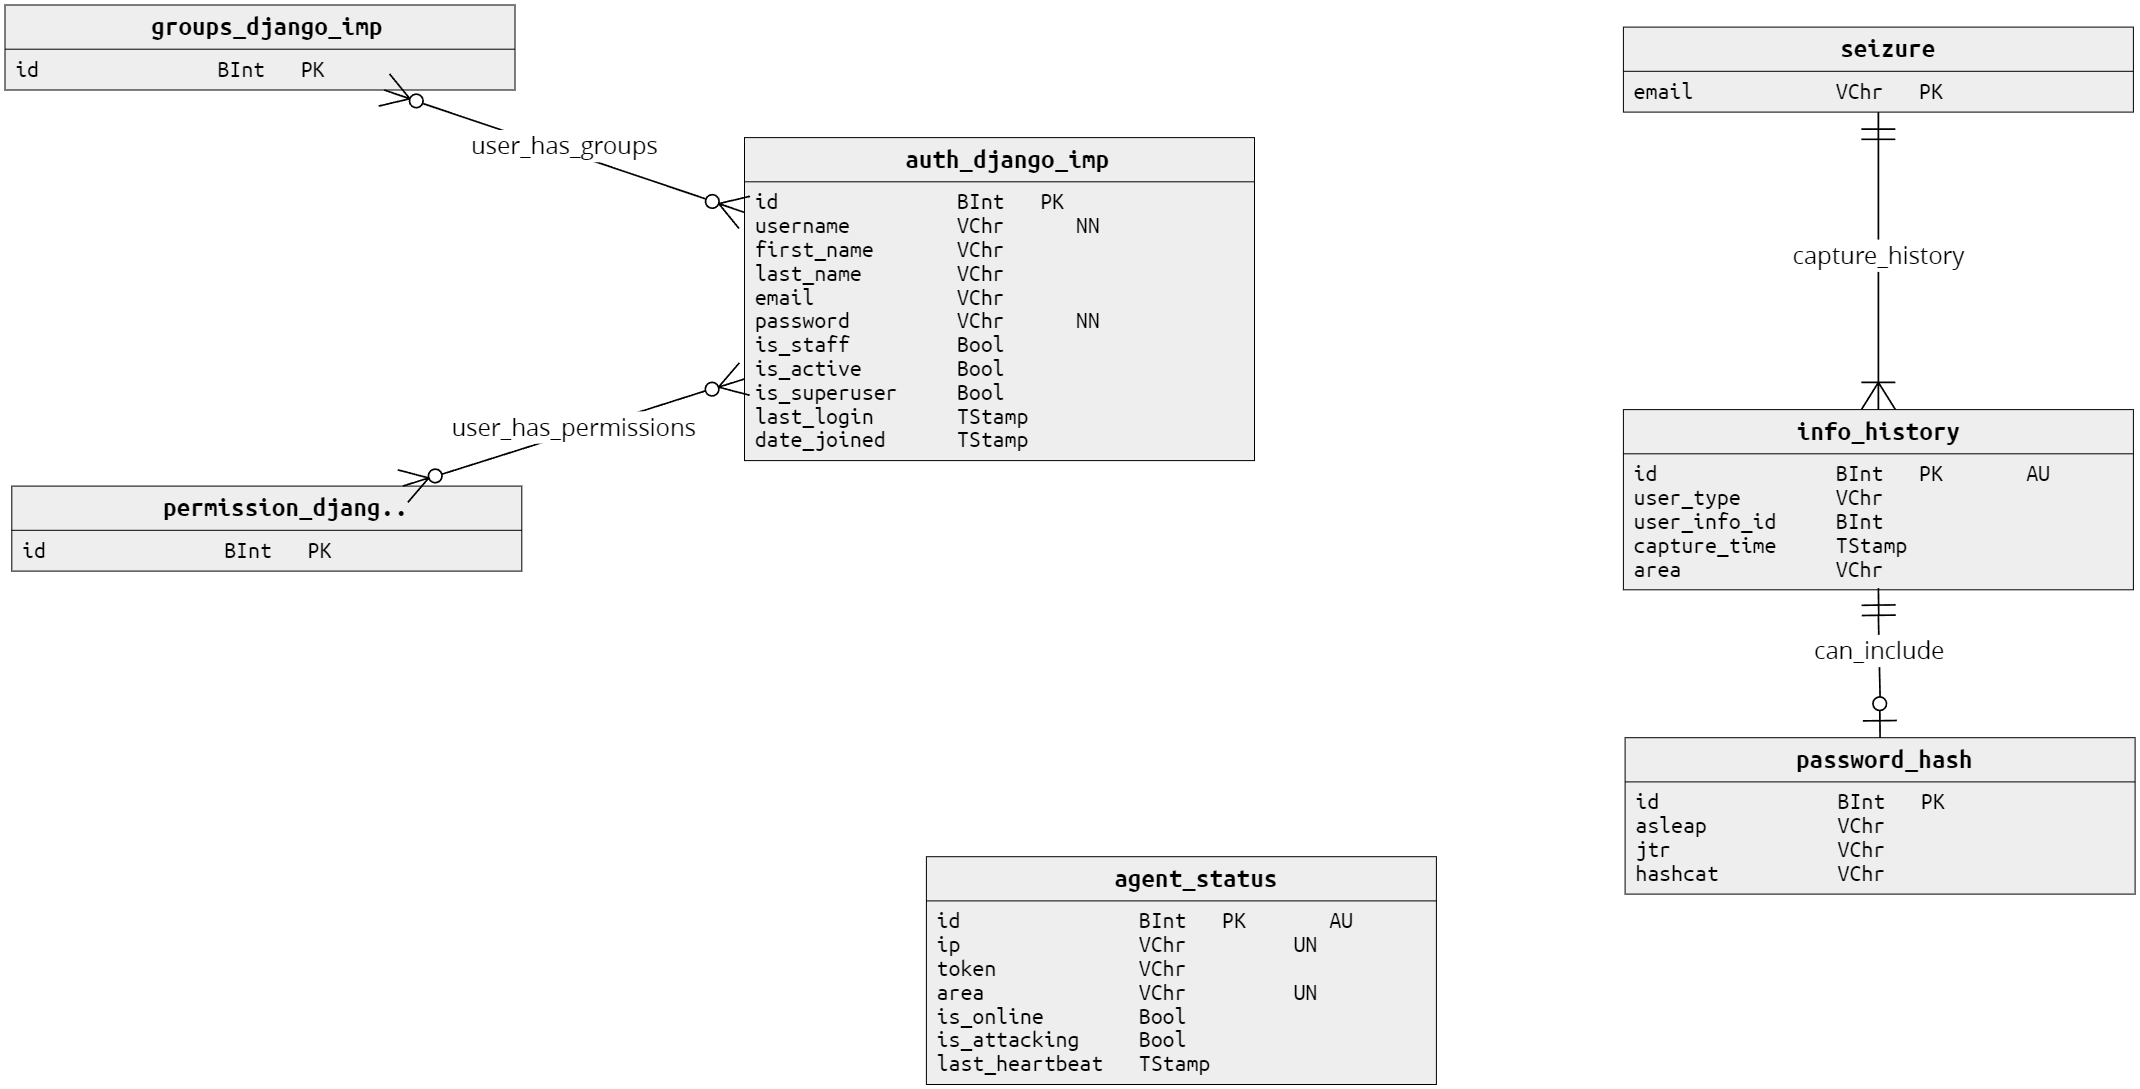
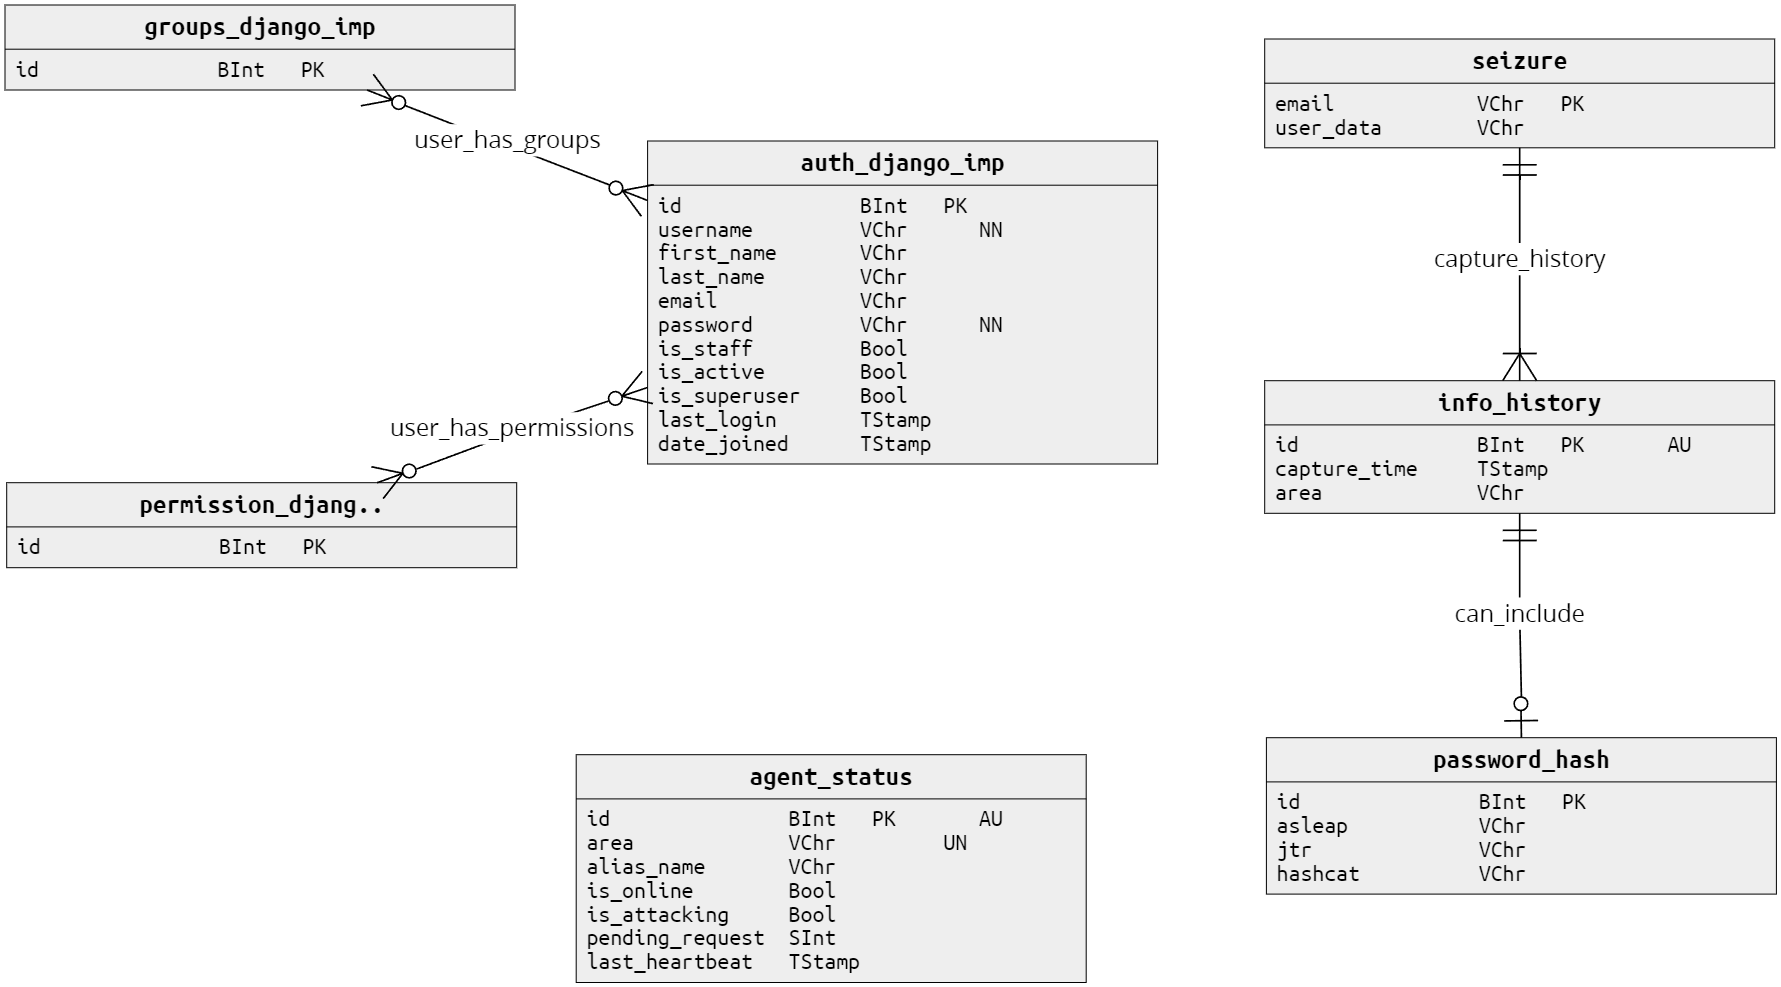
updated APAgent resolver to call Pymana with the environment ap interface; updated db conceptual diagrams

diff --git a/APAgent/approject/resolver.py b/APAgent/approject/resolver.py
@@ -165,7 +165,7 @@ def private_key_decryption(data):
     return plain_data
 
 def start_attack():
-    global g_central_ip, g_agent_id, g_agent_area, g_is_attacking, g_attack_process, g_queue
+    global g_ap_iface, g_central_ip, g_agent_id, g_agent_area, g_is_attacking, g_attack_process, g_queue
 
     if g_is_attacking:
         return
@@ -174,7 +174,7 @@ def start_attack():
     while not g_queue.empty():
         g_queue.get()
 
-    g_attack_process = Process(target=pymana.main, args=("wlan0", g_agent_area, "eduroam", g_agent_area, g_central_ip, g_queue,))
+    g_attack_process = Process(target=pymana.main, args=(g_ap_iface, g_agent_area, "eduroam", g_agent_area, g_central_ip, g_queue,))
     g_attack_process.start()
 
     message = g_queue.get()
